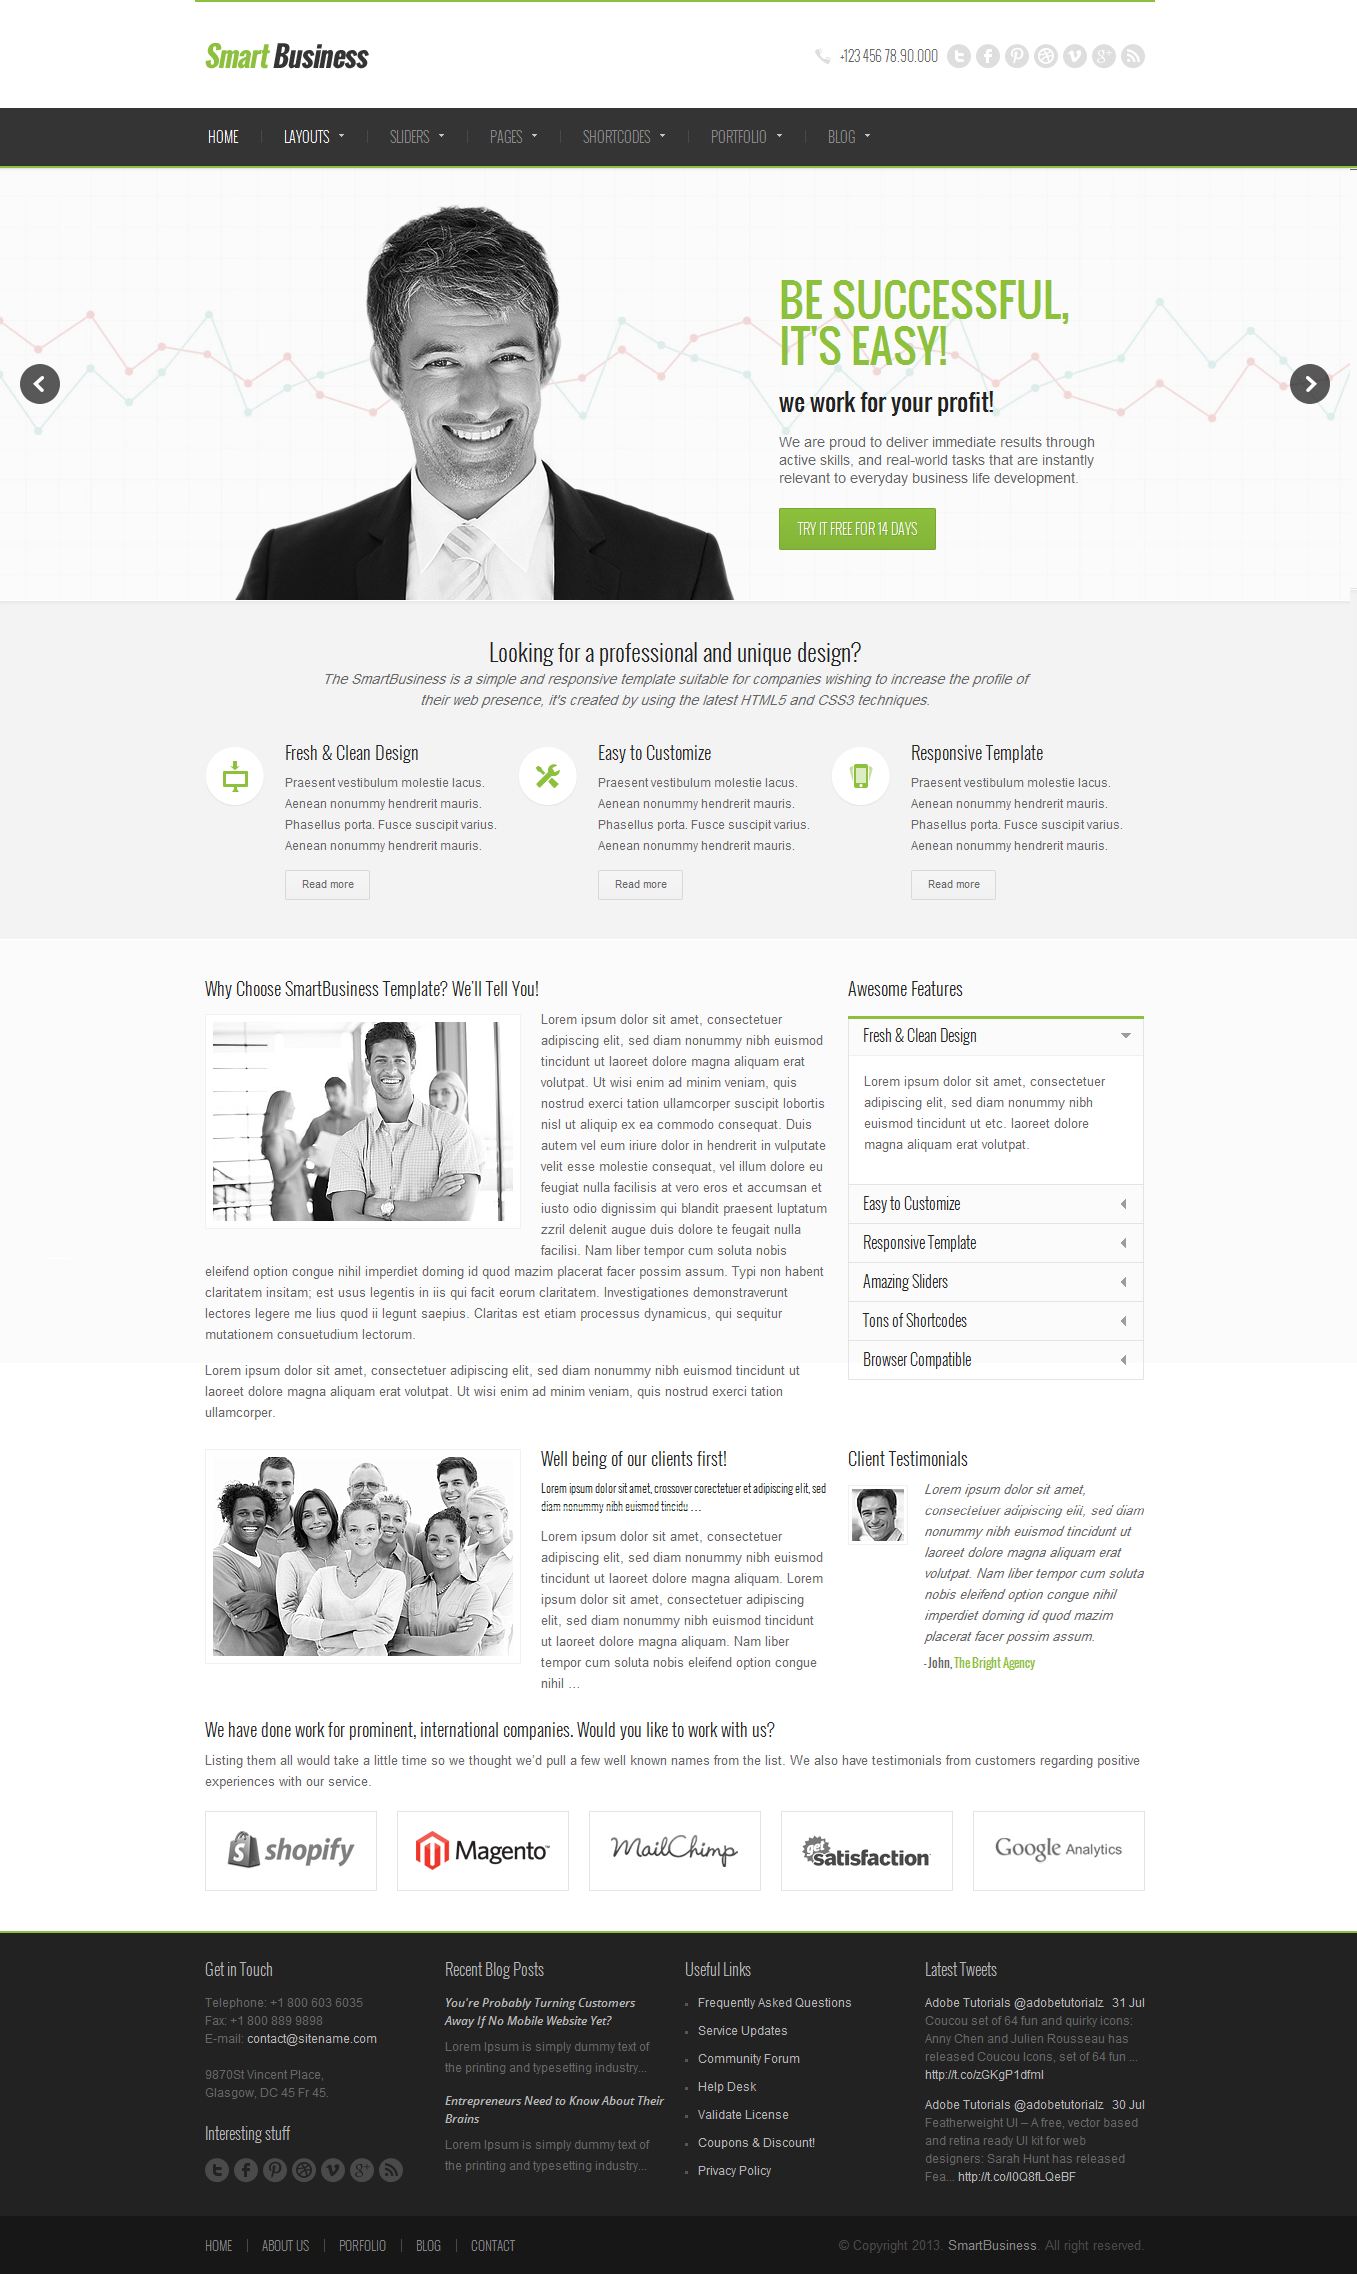
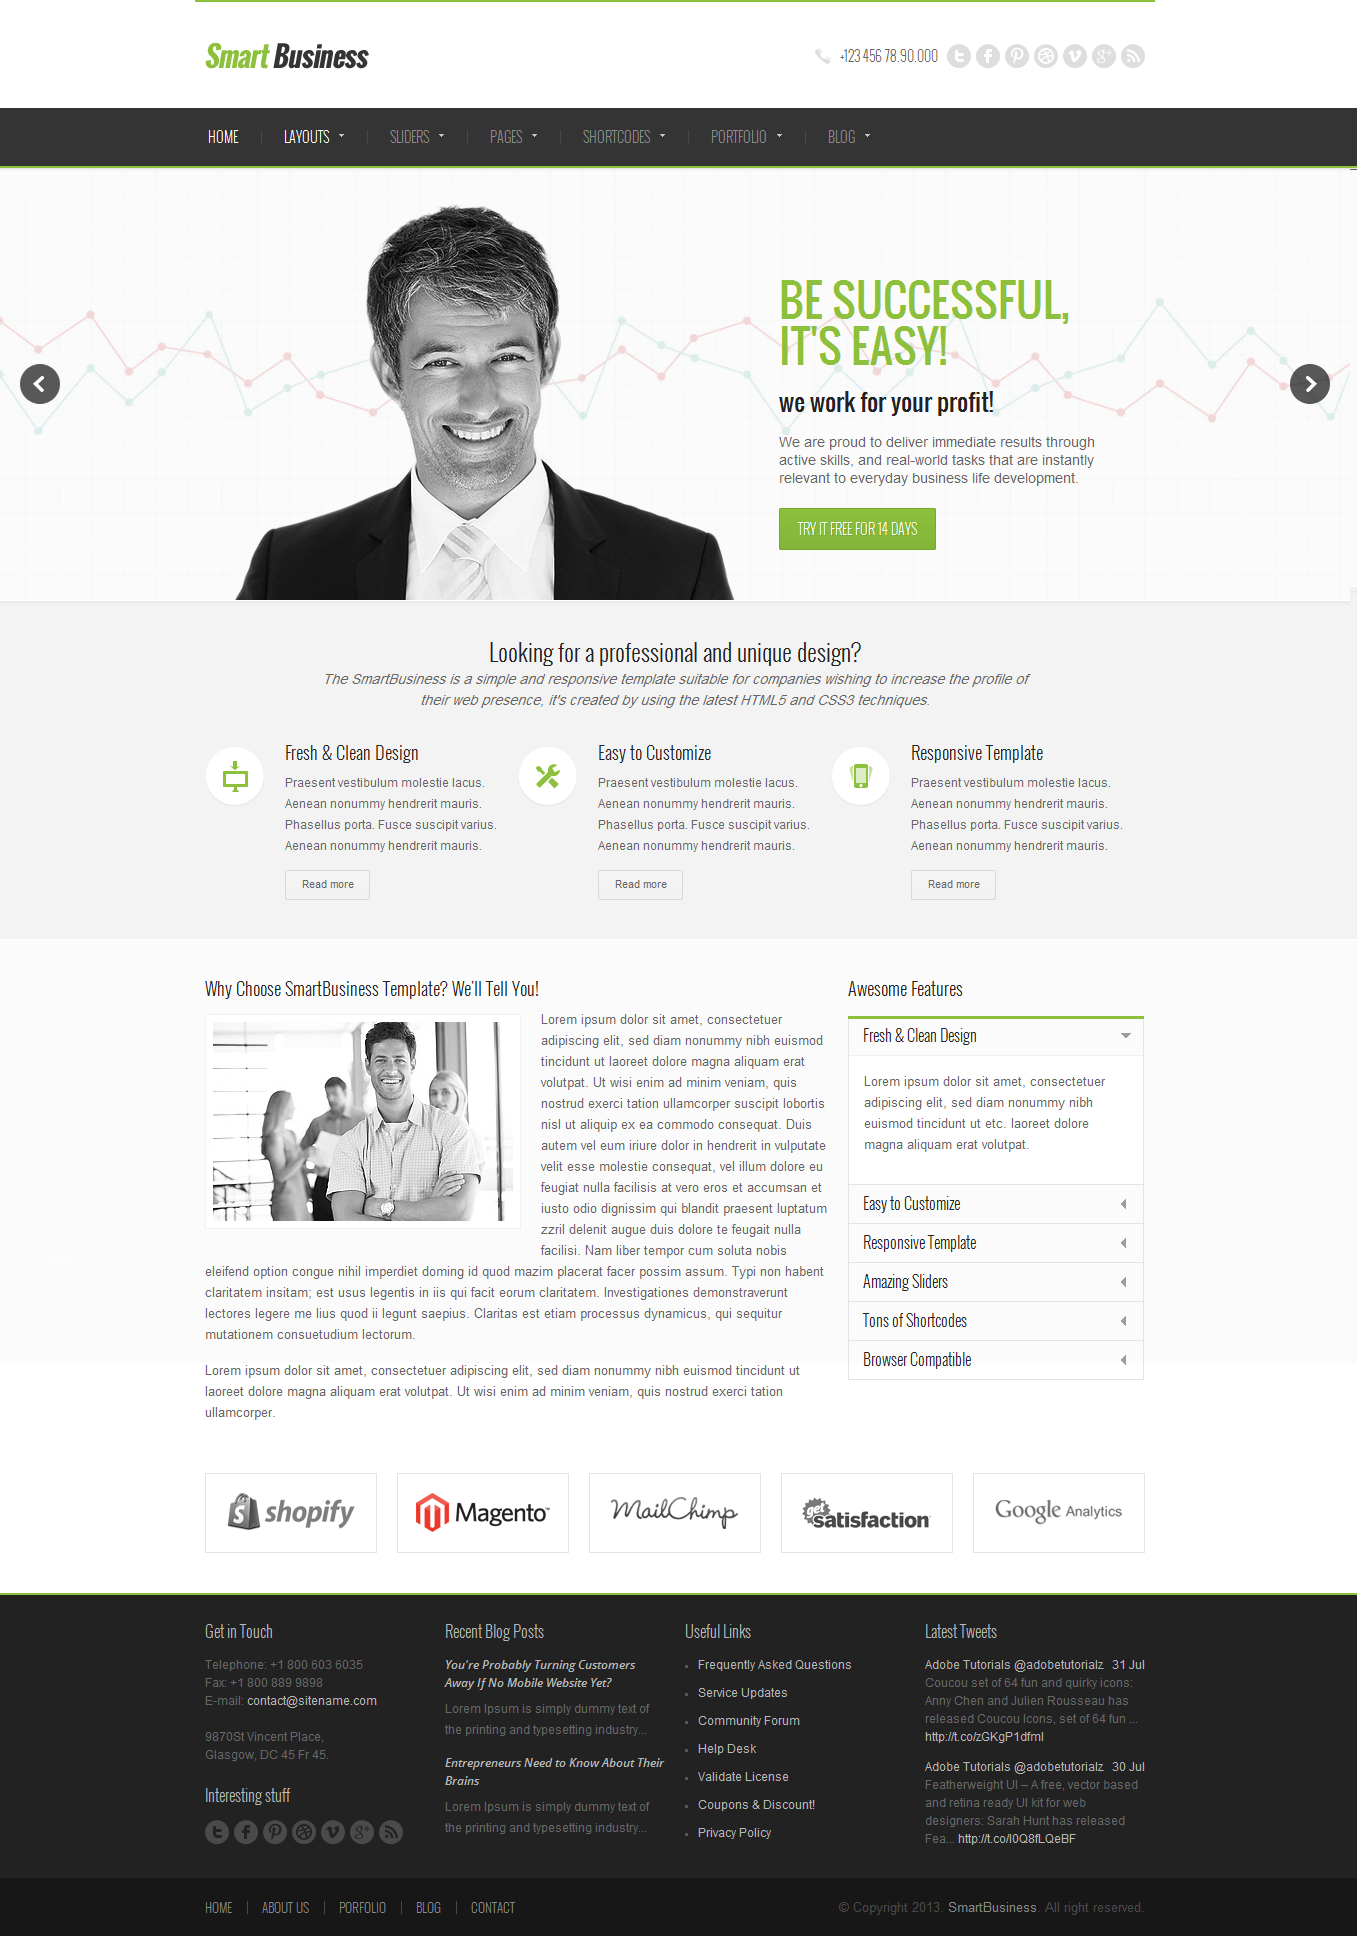
a jafang floor removed !

diff --git a/My Design/en/layout.css b/My Design/en/layout.css
@@ -2,7 +2,7 @@
 body {
 	background-color: #f2f2f2;
 	zoom: 1; /* Just For IE ! - Che khonak ! */
-	min-height: 2274px;
+	min-height: 1936px;
 }
 body.mainsite_bg {
 	background-image: url(image/index-bg.png);
@@ -123,7 +123,7 @@ body.have_outline > * > * > * > * > * > * > * {
 
 /* posts_area */
 .posts_area.container {
-	min-height: 758px;
+	
 }
 
 /* post */
@@ -132,7 +132,7 @@ body.have_outline > * > * > * > * > * > * > * {
 }
 
 .posts_area_foot.container {
-	min-height: 228px;
+	min-height: 143px;
 }
 .footer_widgets.container {
 	min-height: 283px;
